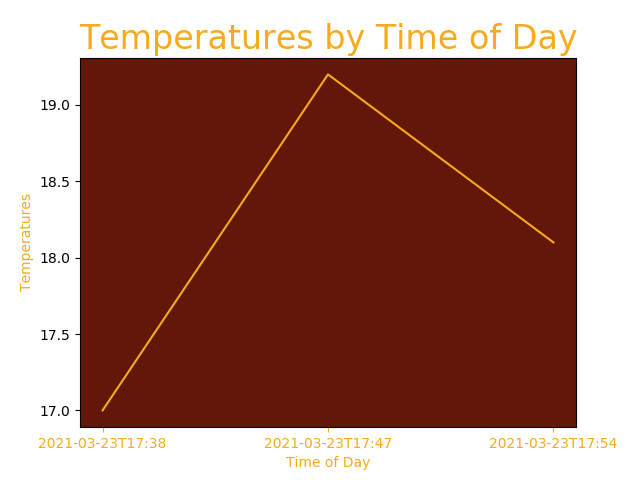
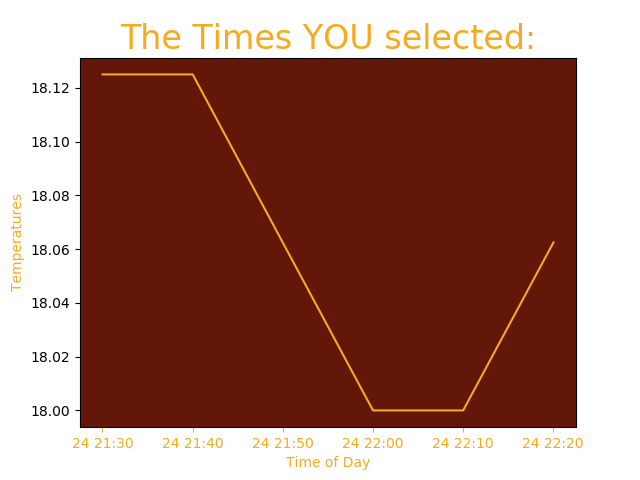
endpoint returning graph as expected

diff --git a/templates/base.html b/templates/base.html
@@ -2,11 +2,12 @@
 </html>
 
 <head>
+    <link rel="shortcut icon" href="{{ url_for('static', filename='favicon.ico') }}">
     <script src="//code.jquery.com/jquery-3.3.1.min.js"></script>
     <script type="text/javascript" src="//cdnjs.cloudflare.com/ajax/libs/socket.io/1.3.6/socket.io.min.js"></script>
     <script src="static/application.js"></script>
     
-    <link rel="shortcut icon" href="{{ url_for('static', filename='favicon.ico') }}">
+    
     <link rel="stylesheet" href="{{ url_for('static', filename='style.css') }}">
     <link rel="preconnect" href="https://fonts.gstatic.com">
     <link href="https://fonts.googleapis.com/css2?family=Poppins:ital,wght@1,300&display=swap" rel="stylesheet">
@@ -52,8 +53,8 @@
             } 
             else {
                 fetch(`/getgraph/${startTime}/${endTime}`)
-                    .then(response => response)
-                    .then(data => console.log(data));
+                    .then(response => response.json())
+                    .then(data => $('#graph-log').html(data['graphHtml']));
 
                 console.log('The start time is ' + startTime.replace("T", " ") + ' and the end time is ' + endTime.replace("T", " "))}
 

diff --git a/static/application.js b/static/application.js
@@ -6,7 +6,6 @@ $(document).ready(function() {
     var graph_received = [];
 
     socket.on('newTemperature', function(msg) {
-        console.log('The Temperature is ' + msg.temperature)
         
         if (temperature_received.length >= 1) {
             temperature_received.shift()
@@ -22,7 +21,6 @@ $(document).ready(function() {
     })
 
     socket.on('newTime', function(msg) {
-        console.log('The Time is ' + msg.time)
 
         if (time_received.length >= 1) {
             time_received.shift()
@@ -38,7 +36,6 @@ $(document).ready(function() {
     })
 
     socket.on('newGraph', function(msg) {
-        console.log('The Graph has updated' + msg.graph)
 
         if (graph_received.length >= 1) {
             graph_received.shift()

diff --git a/app.py b/app.py
@@ -1,5 +1,5 @@
 from flask_socketio import SocketIO, emit
-from flask import Flask, render_template, url_for, copy_current_request_context
+from flask import Flask, render_template, url_for, copy_current_request_context, jsonify
 from random import random
 from time import sleep
 from threading import Thread, Event
@@ -27,7 +27,6 @@ def save_temp_to_database():
         add_temp(temp, timestamp)
 
 def send_time_and_temperature():
-    print("getting the temperature")
     while not thread_stop_event.isSet():
         temperature = sensor.get_temperature()
         timeNow = datetime.now().time().replace(microsecond=0)
@@ -37,9 +36,7 @@ def send_time_and_temperature():
         
         if (timeNow.minute % 10 == 0) and (timeNow.minute != get_time_of_most_recent_temp().minute):
             save_temp_to_database() 
-            make_plot()
             graph = make_plot()
-            print('emitting graph?')
             socketio.emit('newGraph', {'graph': graph}, namespace='/test')
         socketio.sleep(0.5)
          
@@ -59,7 +56,9 @@ def getGraphAsHtml(startTime: str, endTime: str):
     
     graphHtml = make_plot_from_range(rangeOfTemperatures)
 
-    return graphHtml
+    body = {'graphHtml' : graphHtml}
+
+    return jsonify(body) 
 
 @socketio.on('connect', namespace='/test')
 def test_connect():
@@ -71,7 +70,6 @@ def test_connect():
 
     #Start the random number generator thread only if the thread has not been started before.
     if not thread.isAlive():
-        print("Starting Thread")
         thread = socketio.start_background_task(send_time_and_temperature)
     
 

diff --git a/graphmaker.py b/graphmaker.py
@@ -23,7 +23,7 @@ def make_plot_from_range(temperatureHistory: list):
 
     plt.plot(y, x, color= '#F6AA1C')
 
-    plt.title('Temperatures by Time of Day', color= '#F6AA1C')
+    plt.title('The Times YOU selected:', color= '#F6AA1C')
     plt.ylabel('Temperatures', color= '#F6AA1C')
     plt.xlabel('Time of Day', color= '#F6AA1C')
 

diff --git a/model/databasetemp.py b/model/databasetemp.py
@@ -97,8 +97,6 @@ results = cur.fetchall()
 
 timestr = '2021-03-23T17:38'
 datetime_obj = datetime.strptime(timestr, '%Y-%m-%dT%H:%M')
-print(datetime_obj)
-print(timestamp_list()[-1])
-print(get_temps())
+
 # for result in results:
 #     print(result)
